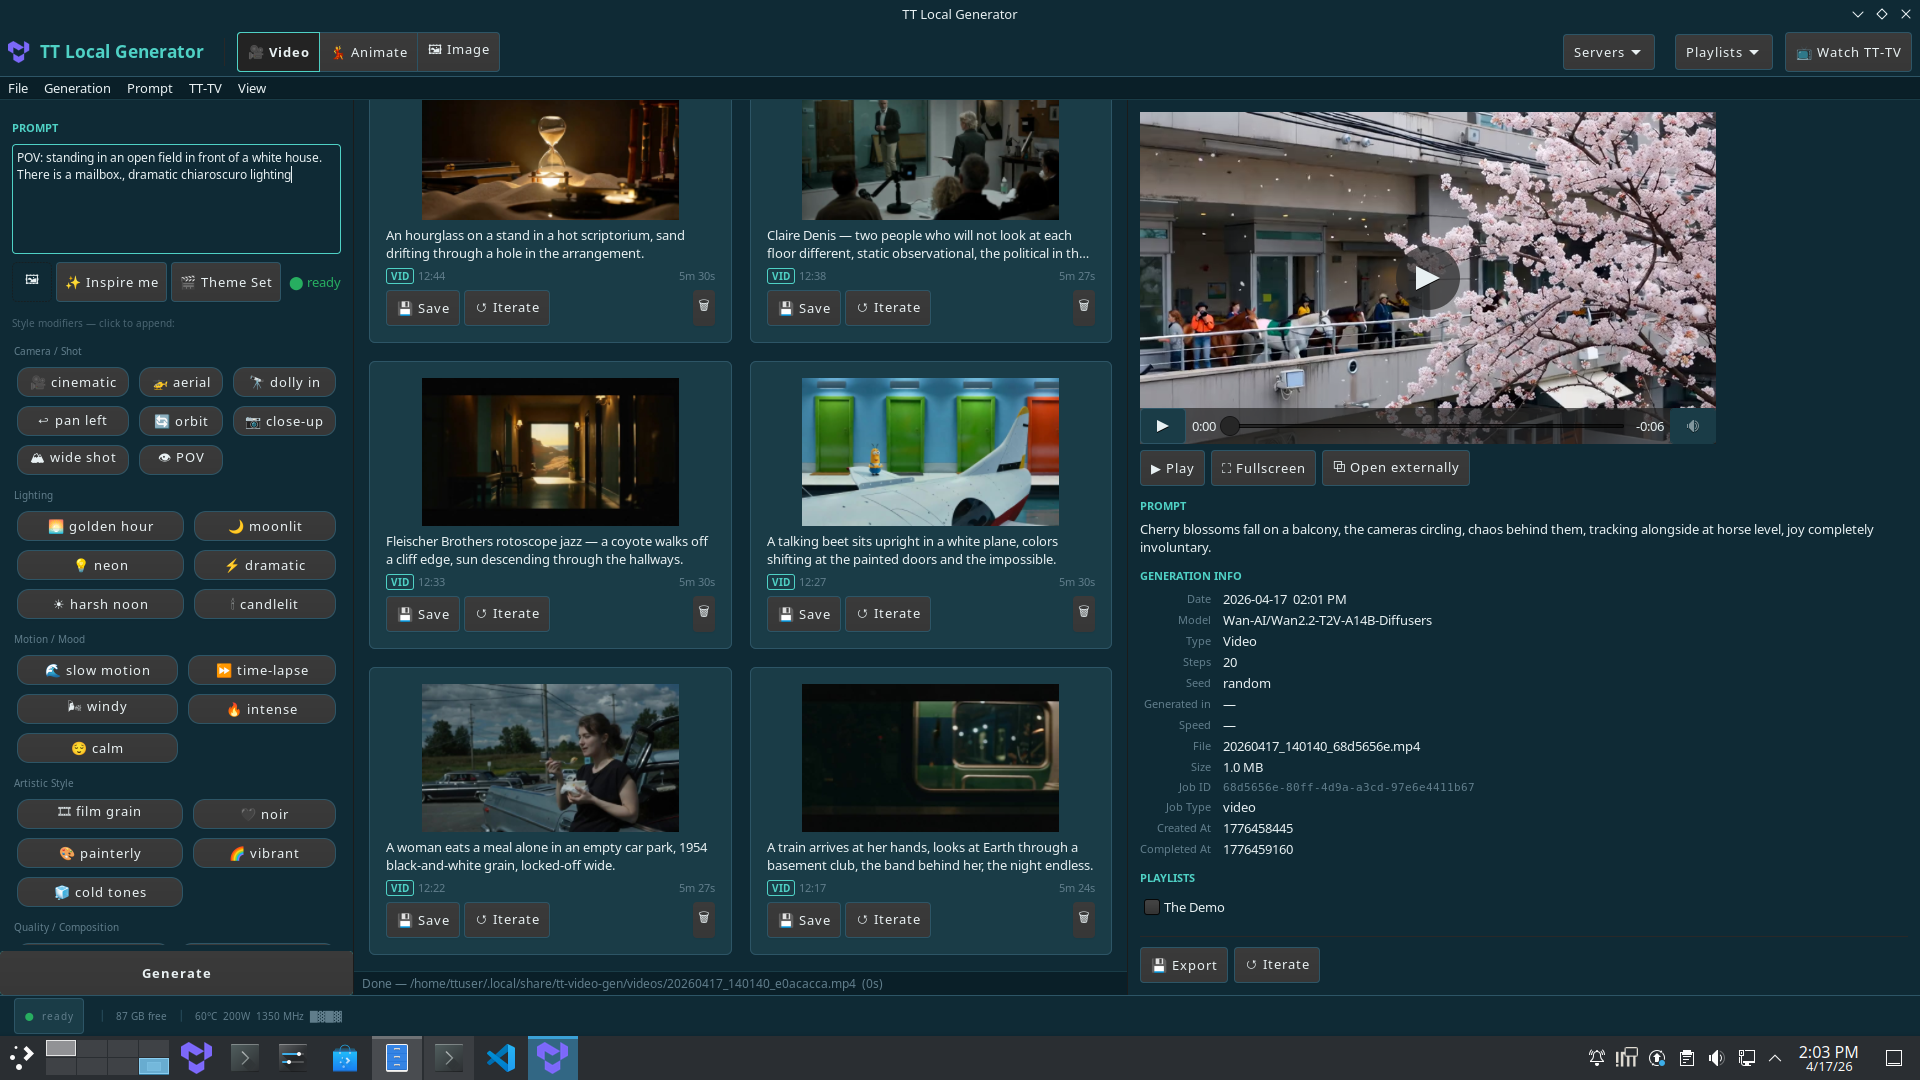
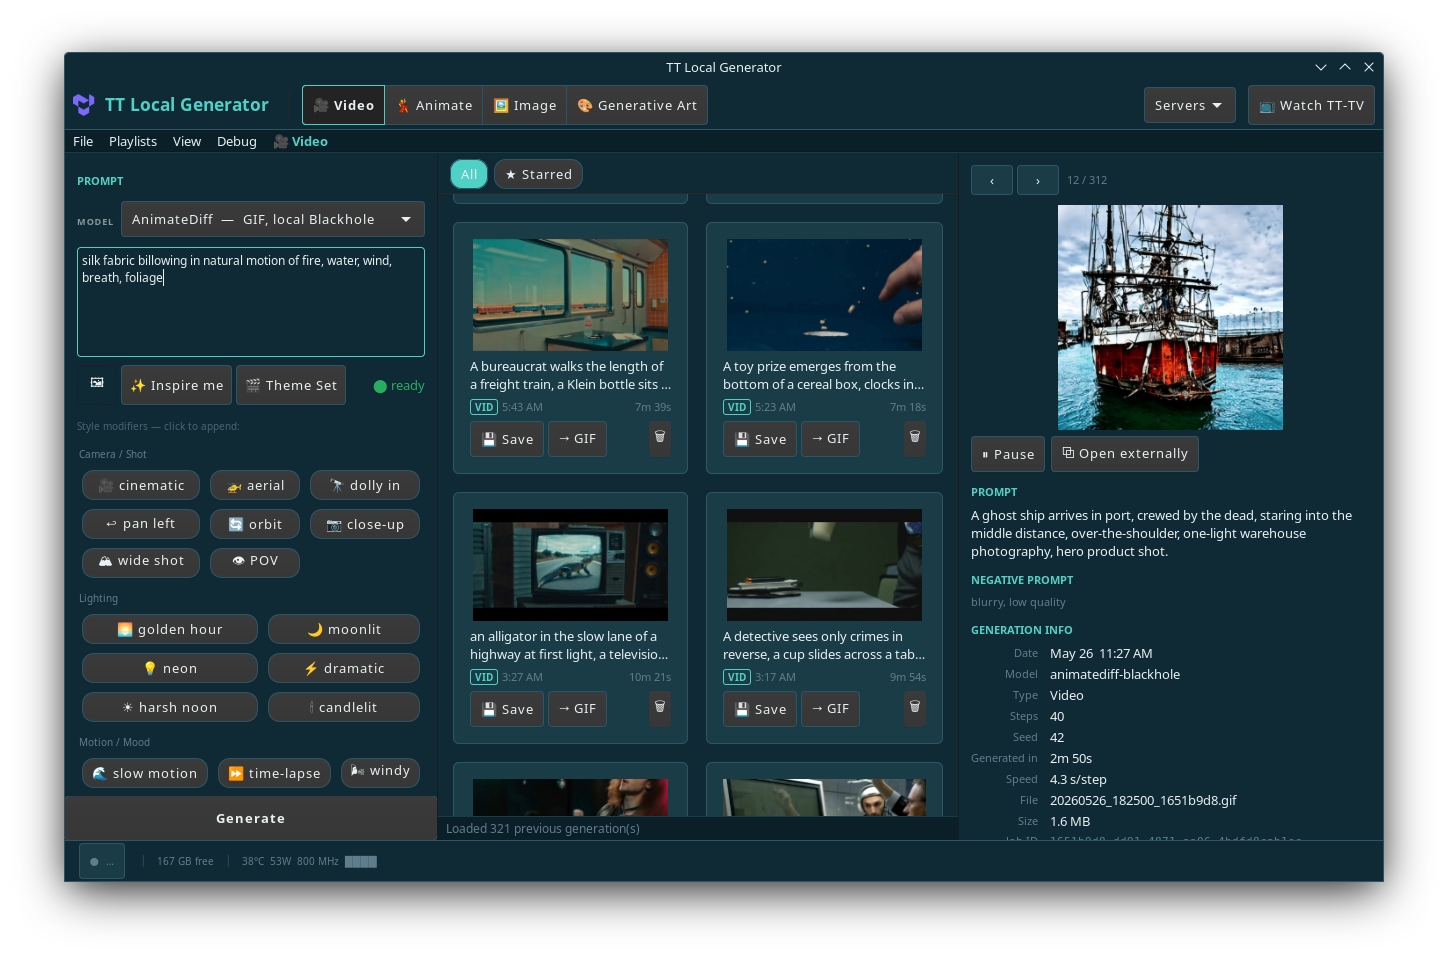
feat(site): update screenshots — new main hero, artgen gallery + palette detail
- tt-local-generator-main.png: new video gallery screenshot with detail panel
- artgen-gallery.png: generative art gallery showing all 12 plugin types
- artgen-detail.png: palette detail view (Cathedral Dust) showing hex swatches,
  color roles, prose lore, and the prompt that generated it

docs/index.html: replace hero image; add 2-column artgen screenshot pair before SVG gallery
docs/plugins.html: (no image changes)
README.md: add plugin system / MCP / Remix bullet points to Features section;
  add 2-column artgen screenshot table (gallery + detail) before SVG table
.github/workflows/gh-pages.yml: comment update

diff --git a/docs/index.html b/docs/index.html
@@ -910,7 +910,7 @@
   <!-- Screenshot lives outside hero-inner so it can span full viewport width -->
   <div class="hero-screenshot-wrap">
     <div class="hero-screenshot">
-      <img src="assets/tt-local-generator-main.png"
+      <img src="assets/tt-local-generator-main.png" loading="lazy"
            alt="tt-local-generator main interface — video generation, history gallery, and TT-TV mode"
            width="1920" height="1080"
            loading="eager">
@@ -1120,6 +1120,18 @@
         See all 12 plugins — authoring guide — MCP wiring →
       </a>
     </p>
+
+    <!-- App screenshots: gallery view + detail view -->
+    <div style="display:grid;grid-template-columns:repeat(2,1fr);gap:1.25rem;margin-bottom:2rem;">
+      <figure style="margin:0;border-radius:var(--radius);overflow:hidden;border:1px solid var(--border);">
+        <img src="assets/artgen-gallery.png" alt="Generative Art gallery — all plugin types visible including landscapes, circuits, palettes, verse, and animated GIFs" style="width:100%;display:block;">
+        <figcaption style="padding:.55rem 1rem;font-size:.78rem;color:var(--muted);background:var(--card);">Art gallery — all 12 plugin types in one grid</figcaption>
+      </figure>
+      <figure style="margin:0;border-radius:var(--radius);overflow:hidden;border:1px solid var(--border);">
+        <img src="assets/artgen-detail.png" alt="Palette detail view — Cathedral Dust palette with hex swatches, color roles, prose lore, and the LLM prompt that generated it" style="width:100%;display:block;">
+        <figcaption style="padding:.55rem 1rem;font-size:.78rem;color:var(--muted);background:var(--card);">Palette detail — Cathedral Dust · hex values, roles, prose lore</figcaption>
+      </figure>
+    </div>
 
     <!-- SVG gallery: 3 top + 2 bottom -->
     <div style="display:grid;grid-template-columns:repeat(3,1fr);gap:1.25rem;margin-top:2rem;">

diff --git a/README.md b/README.md
@@ -24,14 +24,28 @@ All video/image inference runs via a local [tt-inference-server](https://github.
 
 **[Documentation](https://docs.tenstorrent.com/tt-local-generator)** · **[GitHub](https://github.com/tenstorrent/tt-local-generator)**
 
-![tt-local-generator](assets/tt-local-generator-main.png)
+![tt-local-generator — video gallery with detail panel](assets/tt-local-generator-main.png)
 
 ---
 
-## Featured artwork
+## Generative Art
 
-SVG art generated by the built-in **Artgen** generator, rendered entirely on-device using
-the three-tier prompt engine (algorithmic → Markov → Qwen3-0.6B):
+The **Generative Art** tab runs twelve plugin-based generators entirely on-device — SVG
+landscapes, ANSI art, color palettes, verse, circuits, constellations, and AnimateDiff
+animated GIFs. Everything driven by the same three-tier prompt engine.
+
+<table>
+<tr>
+<td align="center" width="50%">
+<img src="docs/assets/artgen-gallery.png" alt="Generative Art gallery — all plugin types" width="480"/>
+<br><sub>Art gallery — all plugin types visible in the filter bar</sub>
+</td>
+<td align="center" width="50%">
+<img src="docs/assets/artgen-detail.png" alt="Palette detail — Cathedral Dust with color swatches and lore" width="480"/>
+<br><sub>Palette detail — Cathedral Dust with hex values, roles, and prose lore</sub>
+</td>
+</tr>
+</table>
 
 <table>
 <tr>
@@ -247,6 +261,19 @@ cd ~/code/tt-local-generator
 
   BBS style (`--ansi-style bbs`) applies neon-on-void color rules (electric cyan, toxic
   green, hot magenta, gold) with board identity baked into the palette theme.
+- **Plugin system** — every Generative Art generator is a discoverable plugin in
+  `plugins/<name>/` with an `mcp.json` tool manifest and a `plugin.py` executor. Drop a
+  new directory into `~/.config/tt-local-gen/plugins/` to add your own generator without
+  touching the app's source code. See [docs/PLUGIN_AUTHORING.md](docs/PLUGIN_AUTHORING.md)
+  and the [plugins page](https://docs.tenstorrent.com/tt-local-generator/plugins.html)
+  for the full authoring guide including a worked Vale prose-style example.
+- **MCP server** — `tt-ctl mcp-server start` exposes all loaded plugins as MCP tools on
+  port 8003. `tt-ctl mcp-config` prints the Claude Code integration snippet so every
+  generator is callable from a conversation.
+- **🔀 Remix** — any artifact can be remixed into any compatible type. Click Remix on a
+  video card to use its first frame as an I2V seed, or on a palette to carry its hex colors
+  and lore into a new landscape or video prompt. The remix graph is derived entirely from
+  plugin `accepts_remix_from` / `can_remix_to` declarations — no hardcoded routing.
 - **Seed image** — attach a reference photo or frame to guide color palette, composition, and
   style continuity between clips.
 - **Prompt queue** — write the next prompt while a generation runs; the queue drains
